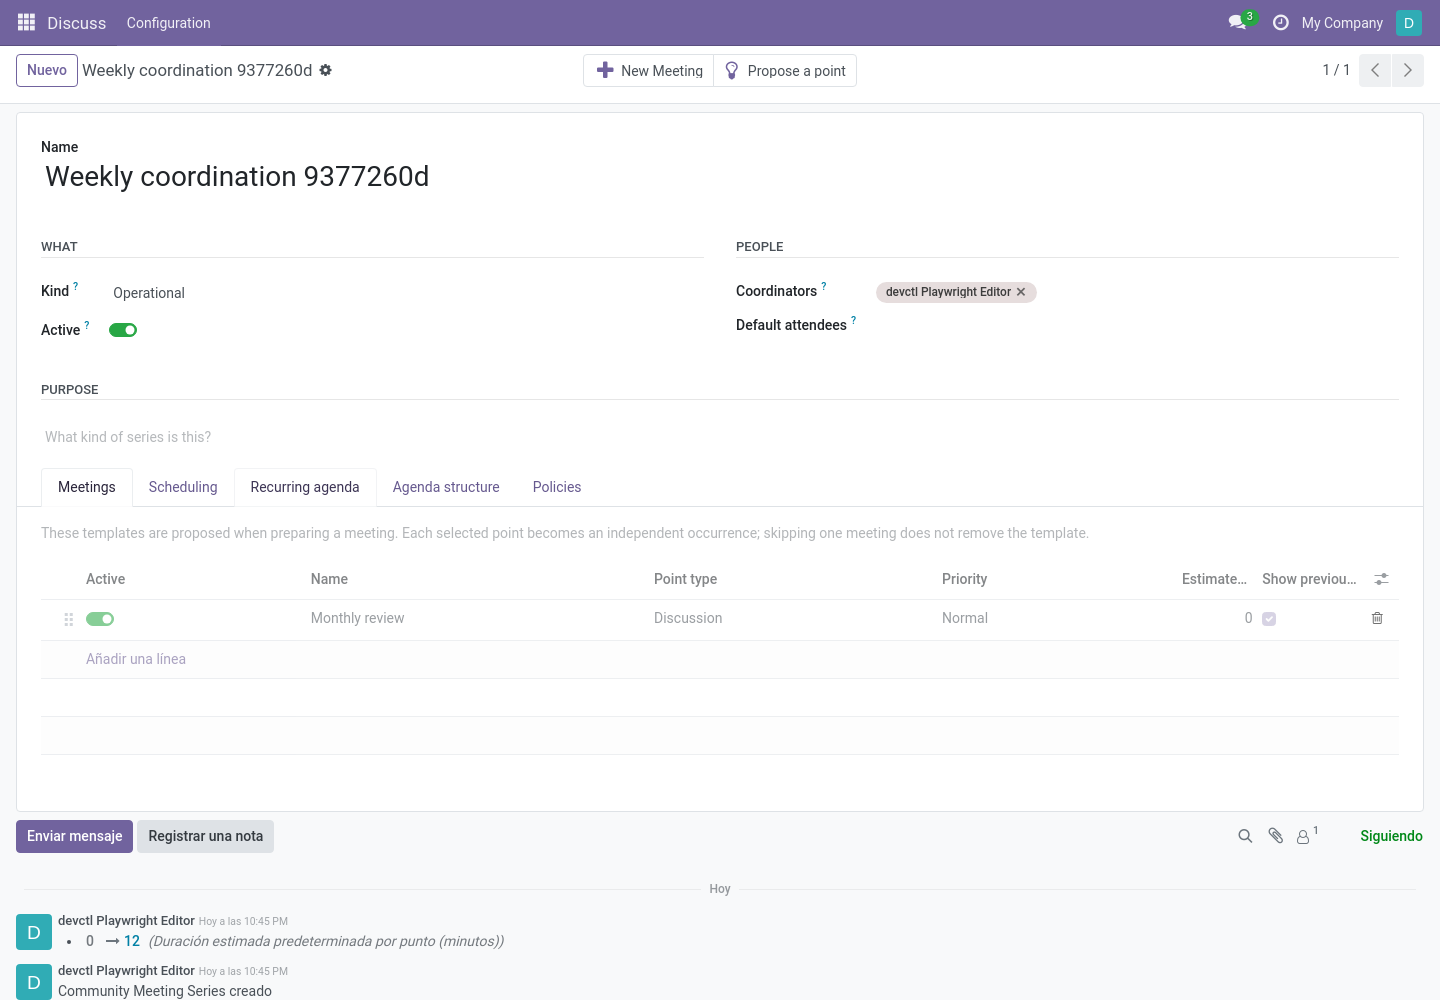
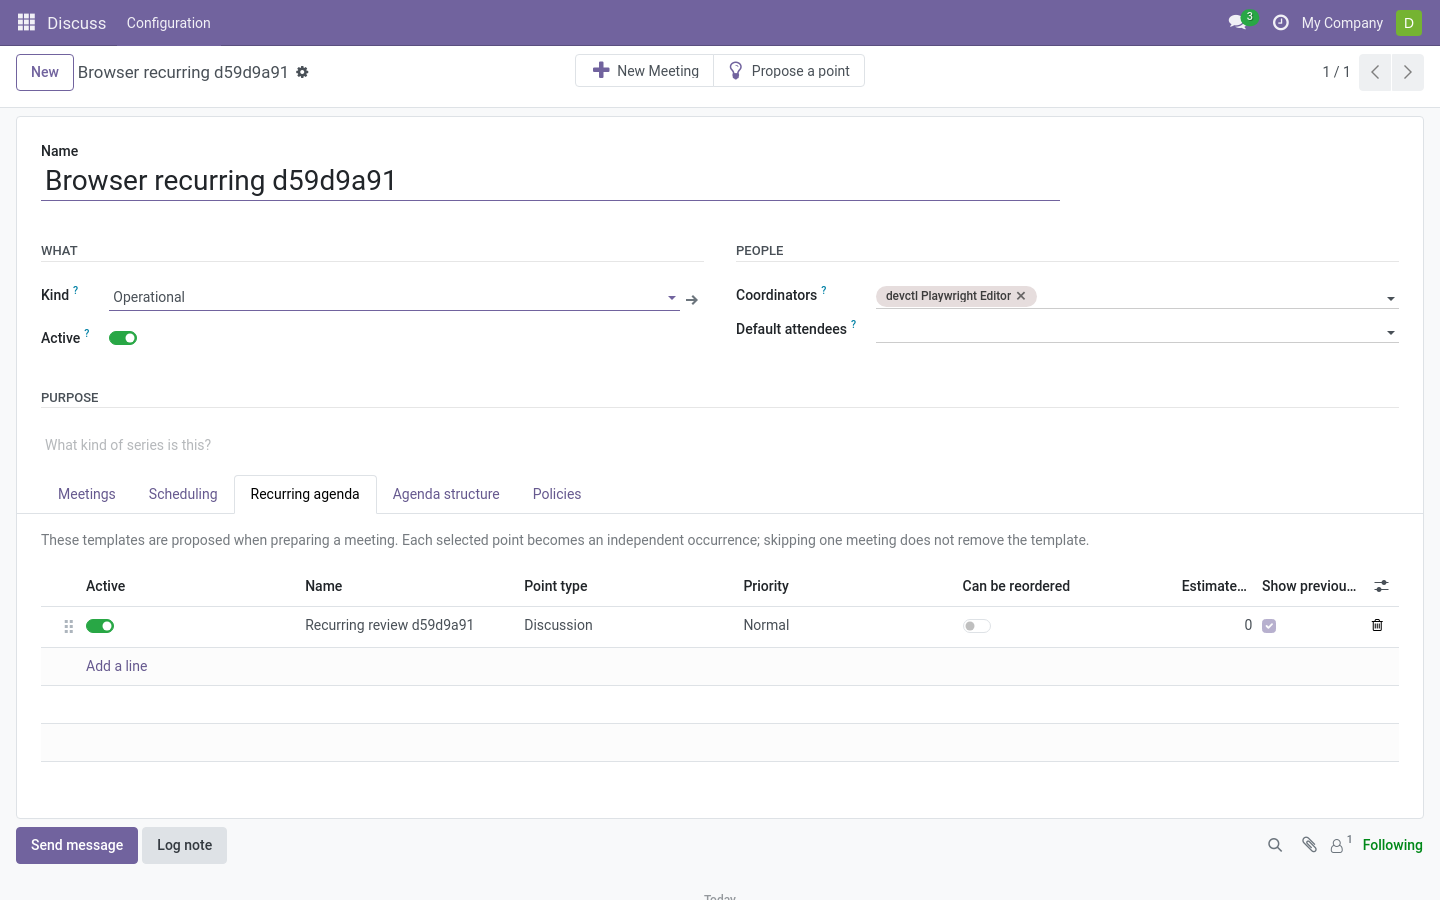
docs(meetings): document agenda point reordering

diff --git a/docs/user_es/admin/series.md b/docs/user_es/admin/series.md
@@ -97,6 +97,18 @@ la política de puntos sin terminar se elige expresamente.
 | **Antes de empezar** | También programada, hasta que comience. |
 | **Mientras se realiza** | También mientras está en curso, hasta que termine. |
 
+### Reordenar puntos
+
+| Valor | Comportamiento |
+|---|---|
+| **Predeterminado de la compañía** | Sigue *Ajustes → Orden de la agenda*. |
+| **Solo borrador** | Los editores pueden reordenar puntos mientras preparan la reunión. |
+| **Antes de empezar** | También mientras está programada y aún no ha comenzado. |
+| **Mientras se realiza** | También durante la reunión en vivo, hasta marcarla como celebrada. |
+
+Los puntos de aprobación del acta y de próxima reunión conservan sus posiciones
+estructurales.
+
 ### Estimaciones de puntos
 
 | Campo | Significado |
@@ -143,6 +155,10 @@ sin las notas previas. La elección se guarda en cada ocurrencia y los cambios
 posteriores de la plantilla no modifican reuniones ya preparadas. Los puntos
 automáticos *Aprobación del acta* y *Próxima reunión* no muestran historial de
 debate.
+
+Desactiva **Se puede reordenar** para mantener ese punto en la misma posición
+de la agenda en cada reunión. El ajuste se copia al crear cada ocurrencia y no
+cambia las reuniones ya preparadas.
 
 ![Plantillas de agenda recurrentes de una serie](../img/series-form.png)
 

diff --git a/docs/user/admin/series.md b/docs/user/admin/series.md
@@ -93,6 +93,17 @@ can use **Company default**; the unfinished-points rule is chosen explicitly.
 | **Before it starts** | Also once scheduled, until it begins. |
 | **While it runs** | Also while the meeting is in progress, until it finishes. |
 
+### Reordering points
+
+| Value | Behavior |
+|---|---|
+| **Company default** | Follows *Settings → Agenda order*. |
+| **Draft only** | Editors can reorder points only while preparing the meeting. |
+| **Before it starts** | Also while the meeting is scheduled and has not started. |
+| **While it runs** | Also during the live meeting, until it is marked held. |
+
+Minutes-approval and next-meeting points keep their structural positions.
+
 ### Point estimates
 
 | Field | Meaning |
@@ -135,6 +146,10 @@ on by default. Turn it off when a recurring point should start without the
 earlier notes; the choice is saved on each occurrence, so later template edits
 do not change meetings already prepared. Automatic *Minutes approval* and *Next
 meeting* points do not use discussion history.
+
+Turn off **Can be reordered** to keep that point in the same agenda position in
+each meeting. This setting is copied when an occurrence is created; it does not
+change meetings already prepared.
 
 ![Recurring agenda templates on a series](../img/series-form.png)
 

diff --git a/docs/user_es/roles-and-permissions.md b/docs/user_es/roles-and-permissions.md
@@ -65,6 +65,13 @@ de poder añadirse al salir de borrador, al iniciarse o al terminar. El botón
 **Añadir punto** simplemente desaparece cuando no está permitido — y el servidor
 también lo impide.
 
+## ¿Quién puede reordenar puntos de agenda?
+
+Solo los editores de la reunión. La política de la compañía o de la serie fija
+la última fase en que se permite; el servidor aplica la misma regla a las
+peticiones directas. Los puntos estructurales de aprobación del acta y de
+próxima reunión conservan sus posiciones.
+
 ## Propuestas
 
 Cualquier usuario interno puede proponer puntos, salvo que el gestor restrinja
@@ -79,6 +86,7 @@ la propuesta a grupos concretos (ver
 | Descargar el PDF aprobado | ✔ | ✔ | ✔ | ✔ |
 | Proponer un punto | ✔¹ | ✔ | ✔ | ✔ |
 | Añadir puntos a una agenda | | ✔ | | ✔ |
+| Reordenar puntos de agenda | | ✔ | | ✔ |
 | Dirigir la reunión en vivo | | ✔ | | ✔ |
 | Registrar discrepancias / notas editoriales | | ✔ | | ✔ |
 | Redactar el acta | | ✔ | | ✔ |

diff --git a/docs/user/roles-and-permissions.md b/docs/user/roles-and-permissions.md
@@ -62,6 +62,13 @@ Configured per company and per series (see
 adding points stops when the meeting leaves draft, when it starts, or when it
 finishes. The **Add Point** button simply disappears when not allowed.
 
+## Who can reorder agenda points?
+
+Only meeting editors can reorder points. The company or series policy sets the
+last phase in which this is allowed; the server applies the same rule to direct
+requests. Structural minutes-approval and next-meeting points keep their fixed
+positions.
+
 ## Proposals
 
 Any internal user can propose points unless the manager restricts proposal to
@@ -75,6 +82,7 @@ specific groups (see [Authorized proposer groups](admin/catalogs.md#authorized-p
 | Download approved PDF | ✔ | ✔ | ✔ | ✔ |
 | Propose a point | ✔¹ | ✔ | ✔ | ✔ |
 | Add points to an agenda | | ✔ | | ✔ |
+| Reorder agenda points | | ✔ | | ✔ |
 | Run the live meeting | | ✔ | | ✔ |
 | Record dissents / editorial notes | | ✔ | | ✔ |
 | Write minutes | | ✔ | | ✔ |

diff --git a/docs/user_es/user/live-meeting.md b/docs/user_es/user/live-meeting.md
@@ -43,6 +43,15 @@ Herramientas sobre la lista: **Añadir punto** (según la
 [política de añadir puntos](../admin/configuration.md#añadir-puntos)), flechas
 anterior/siguiente, filtro **Solo pendientes**, **Expandir/Contraer todo**.
 
+Cuando la política de reordenamiento de la compañía o de la serie lo permite,
+también se pueden subir o bajar puntos normales. Durante la reunión, pulsa
+**Reordenar agenda** sobre las tarjetas para mostrar las flechas; al terminar,
+pulsa **Hecho**. Los puntos de aprobación del acta, de próxima reunión y los
+marcados como fijos conservan su posición. El orden se bloquea al marcar la
+reunión como **Celebrada**.
+
+![Reunión en vivo con los controles de reordenamiento activados](../img/live-agenda-reordering.png)
+
 ### Dirigir un punto
 
 1. **Iniciar punto** (con tiempo activado) — habilita la edición y arranca su

diff --git a/docs/user/user/live-meeting.md b/docs/user/user/live-meeting.md
@@ -43,6 +43,14 @@ Tools above the list: **Add Point** (subject to the
 [adding-points policy](../admin/configuration.md#adding-points)), previous/next
 arrows, **Pending only** filter, **Expand/Collapse all**.
 
+Regular agenda points can also be moved up or down when the series or company
+reordering policy allows it. During a live meeting, choose **Reorder agenda**
+above the cards to reveal the arrows; choose **Done reordering** when finished.
+The minutes-approval, next-meeting, and individually fixed points keep their
+positions. The order locks when the meeting is marked **Held**.
+
+![Live agenda with reordering controls enabled](../img/live-agenda-reordering.png)
+
 ### Running a point
 
 1. **Begin point** (time tracking on) — opens the point for editing and starts

diff --git a/docs/user_es/user/prepare-meeting.md b/docs/user_es/user/prepare-meeting.md
@@ -98,6 +98,15 @@ puntos rápido.
 > la **política de añadir puntos** de su serie — desaparece al vencer el plazo y el
 > servidor también lo impide.
 
+## Reordenar puntos de agenda
+
+Usa los controles **Subir** y **Bajar** junto a cada punto para colocarlo donde
+corresponda. El orden se guarda al momento y se refleja en la agenda en vivo y
+en el acta. Los puntos de aprobación del acta y de próxima reunión conservan sus
+posiciones estructurales. El reordenamiento sigue la política de la compañía o
+de la serie; al marcar la reunión como
+**Celebrada**, el orden queda bloqueado.
+
 En el formulario de la reunión aparece un aviso cuando la suma de estimaciones
 de la agenda supera la duración prevista. Ajusta allí la duración o los puntos.
 

diff --git a/docs/user/user/prepare-meeting.md b/docs/user/user/prepare-meeting.md
@@ -98,6 +98,14 @@ The **Add and continue** button chains several points quickly.
 > **adding-points policy** of its series — it disappears after the deadline and
 > the server enforces it too.
 
+## Reorder agenda points
+
+Use the **Move up** and **Move down** controls beside a point to put it in the
+right place. The order is saved immediately and carries through to the live
+agenda and the minutes. Minutes-approval and next-meeting points stay in their
+structural positions. Reordering follows the company or series policy; the order
+locks when the meeting is marked **Held**.
+
 On the meeting form, an **estimated agenda over budget** warning appears when
 the sum of agenda estimates exceeds the meeting duration. Adjust the duration
 or the agenda there.

diff --git a/docs/user_es/admin/configuration.md b/docs/user_es/admin/configuration.md
@@ -58,6 +58,17 @@ impide. Cada serie puede sobrescribirlo (ver
 > (Celebrada/Acta en borrador/Aprobada) — eso se registra como seguimiento o
 > propuesta nueva.
 
+## Reordenar puntos de agenda
+
+| Ajuste | Significado |
+|---|---|
+| **Reordenar puntos hasta** | La última fase en que los editores pueden cambiar el orden: **Solo borrador**, **Antes de empezar** o **Mientras se realiza**. |
+
+La política usa los mismos límites de fase que la de añadir puntos. El
+reordenamiento se bloquea al marcar la reunión como **Celebrada**, para mantener
+fijo el orden con el que se prepara el acta. Cada serie puede sobrescribir el
+valor de la compañía.
+
 ## Seguimientos
 
 | Ajuste | Significado |

diff --git a/docs/user/admin/configuration.md b/docs/user/admin/configuration.md
@@ -55,6 +55,16 @@ Series can override this per series (see [Series → Policies](series.md#policie
 > (Held/Minutes draft/Approved) — record those as follow-ups or new proposals
 > instead.
 
+## Reordering agenda points
+
+| Setting | Meaning |
+|---|---|
+| **Reorder agenda points until** | The last phase in which editors can change the order: **Draft only**, **Before it starts**, or **While it runs**. |
+
+The policy uses the same phase boundaries as adding points. Reordering stops
+when the meeting is marked **Held**, so the order used to prepare minutes stays
+fixed. A series can override the company setting.
+
 ## Follow-ups
 
 | Setting | Meaning |

diff --git a/community_meetings/readme/newsfragments/agenda-point-reordering.feature.md b/community_meetings/readme/newsfragments/agenda-point-reordering.feature.md
@@ -1,0 +1,1 @@
+Meeting editors can move agenda points up or down in preparation and during a live meeting, within a company or series policy. The order is locked when the meeting is marked held; minutes-approval and next-meeting points retain their structural positions.
